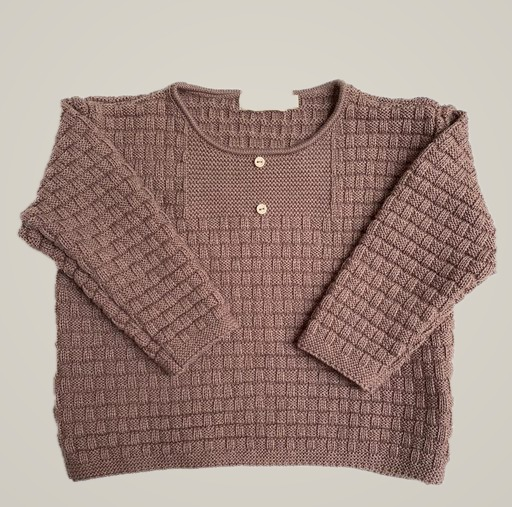
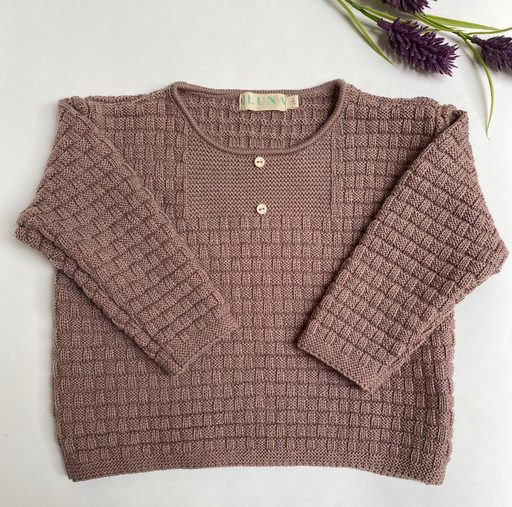
Catálogo kids: ajusta fotos de modelos y restaura originales
- NI-001, NI-005, NI-008, NI-010, NI-014, NI-016, NI-022, NI-025 y NI-027:
  retira fotos repetidas o que no corresponden al modelo.
- NI-012: foto del conjunto velero con fondo transparente (PNG).
- NI-022: fotos giradas a vertical y recortadas a 3:4.
- NI-017 beige, NI-021, NI-023 y NI-025: restaura las fotos originales
  anteriores al cambio de fondos (c5fa17c).
- NI-028: deja solo la foto original de la chompa gris.
- Sube versión del catálogo a 20261115-46.

Claude-Session: https://claude.ai/code/session_01L7CcG4bwUdMNttiWrGzkSD

diff --git a/catalog-data.js b/catalog-data.js
@@ -340,9 +340,8 @@ const products = [
     "name": "Conjunto bebé gris",
     "audience": "ninos",
     "garment": "conjuntos",
-    "image": "ninos/IMG_0002.jpg",
+    "image": "ninos/NI-001_gris-borgona-2.jpg",
     "images": [
-      "ninos/IMG_0002.jpg",
       "ninos/NI-001_gris-borgona-2.jpg",
       "ninos/NI-001_gris-borgona-3.jpg",
       "ninos/NI-001_gris-rosa-pantalon.jpg"
@@ -383,8 +382,7 @@ const products = [
     "garment": "conjuntos",
     "image": "ninos/NI-005_conjunto-reyna-nueva.jpg",
     "images": [
-      "ninos/NI-005_conjunto-reyna-nueva.jpg",
-      "ninos/NI-005_palo-rosa.jpg"
+      "ninos/NI-005_conjunto-reyna-nueva.jpg"
     ],
     "colors": [
       "Palo rosa",
@@ -437,9 +435,8 @@ const products = [
     "name": "Bolero Maya",
     "audience": "ninos",
     "garment": "chompas",
-    "image": "ninos/NI-008_palo-rosa-volante.jpg",
+    "image": "ninos/NI-008_palo-rosa.jpg",
     "images": [
-      "ninos/NI-008_palo-rosa-volante.jpg",
       "ninos/NI-008_palo-rosa.jpg"
     ],
     "colors": [
@@ -474,9 +471,8 @@ const products = [
     "name": "Chompa Complices",
     "audience": "ninos",
     "garment": "chompas",
-    "image": "ninos/NI-010_chompa-complices.jpg",
+    "image": "ninos/NI-010_fucsia.jpg",
     "images": [
-      "ninos/NI-010_chompa-complices.jpg",
       "ninos/NI-010_fucsia.jpg",
       "ninos/NI-010_rosado-little-complices.jpg",
       "ninos/NI-010_verde-agua.jpg"
@@ -513,9 +509,9 @@ const products = [
     "name": "Chompa Velero",
     "audience": "ninos",
     "garment": "chompas",
-    "image": "ninos/NI-012_velero-conjunto.jpg",
+    "image": "ninos/NI-012_velero-conjunto.png",
     "images": [
-      "ninos/NI-012_velero-conjunto.jpg"
+      "ninos/NI-012_velero-conjunto.png"
     ],
     "colors": [
       "Blanco/azul",
@@ -547,10 +543,8 @@ const products = [
     "name": "Conjunto Bruno Tacto",
     "audience": "ninos",
     "garment": "conjuntos",
-    "image": "ninos/NI-014_conjunto-bruno-tacto.jpg",
+    "image": "ninos/NI-014_celeste-conjunto-nuevo.jpg",
     "images": [
-      "ninos/NI-014_conjunto-bruno-tacto.jpg",
-      "ninos/NI-014_celeste-azul.jpg",
       "ninos/NI-014_celeste-conjunto-nuevo.jpg",
       "ninos/NI-015_verde-beige.jpg"
     ],
@@ -572,8 +566,7 @@ const products = [
     "garment": "chompas",
     "image": "ninos/NI-016_celeste-cable.jpg",
     "images": [
-      "ninos/NI-016_celeste-cable.jpg",
-      "ninos/NI-016_celeste.jpg"
+      "ninos/NI-016_celeste-cable.jpg"
     ],
     "colors": [
       "Celeste",
@@ -666,11 +659,10 @@ const products = [
     "name": "Chompa Nando",
     "audience": "ninos",
     "garment": "chompas",
-    "image": "ninos/NI-022_chompa-nando.jpg",
+    "image": "ninos/NI-022_beige-hueso-vertical.jpg",
     "images": [
-      "ninos/NI-022_chompa-nando.jpg",
-      "ninos/NI-022_beige-hueso.jpg",
-      "ninos/NI-022_verde-hueso.jpg"
+      "ninos/NI-022_beige-hueso-vertical.jpg",
+      "ninos/NI-022_verde-hueso-vertical.jpg"
     ],
     "colors": [
       "Verde/hueso",
@@ -723,8 +715,7 @@ const products = [
     "garment": "chompas",
     "image": "ninos/NI-025_chompa-luna.jpg",
     "images": [
-      "ninos/NI-025_chompa-luna.jpg",
-      "ninos/NI-025_rosado.jpg"
+      "ninos/NI-025_chompa-luna.jpg"
     ],
     "colors": [
       "Rosado",
@@ -759,8 +750,7 @@ const products = [
     "garment": "chompas",
     "image": "ninos/NI-027_chompa-selene.jpg",
     "images": [
-      "ninos/NI-027_chompa-selene.jpg",
-      "ninos/NI-027_rosado.jpg"
+      "ninos/NI-027_chompa-selene.jpg"
     ],
     "colors": [
       "Beige",
@@ -778,9 +768,7 @@ const products = [
     "garment": "chompas",
     "image": "ninos/NI-028_chompa-sarai.jpg",
     "images": [
-      "ninos/NI-028_chompa-sarai.jpg",
-      "ninos/NI-028_melange.jpg",
-      "ninos/NI-028_vino.jpg"
+      "ninos/NI-028_chompa-sarai.jpg"
     ],
     "colors": [
       "Melange",

diff --git a/index.html b/index.html
@@ -72,6 +72,6 @@
     <dialog id="cart-dialog" class="dialog cart-dialog"><button class="dialog-close" aria-label="Cerrar">×</button><div id="cart-content"></div></dialog>
     <dialog id="account-dialog" class="dialog form-dialog"><button class="dialog-close" aria-label="Cerrar">×</button><div id="account-content"></div></dialog>
     <dialog id="uniform-dialog" class="dialog form-dialog"><button class="dialog-close" aria-label="Cerrar">×</button><div id="uniform-form-content"></div></dialog>
-    <script src="catalog-data.js?v=20261115-32"></script><script src="app.js?v=20261115-8"></script>
+    <script src="catalog-data.js?v=20261115-46"></script><script src="app.js?v=20261115-8"></script>
   </body>
 </html>
